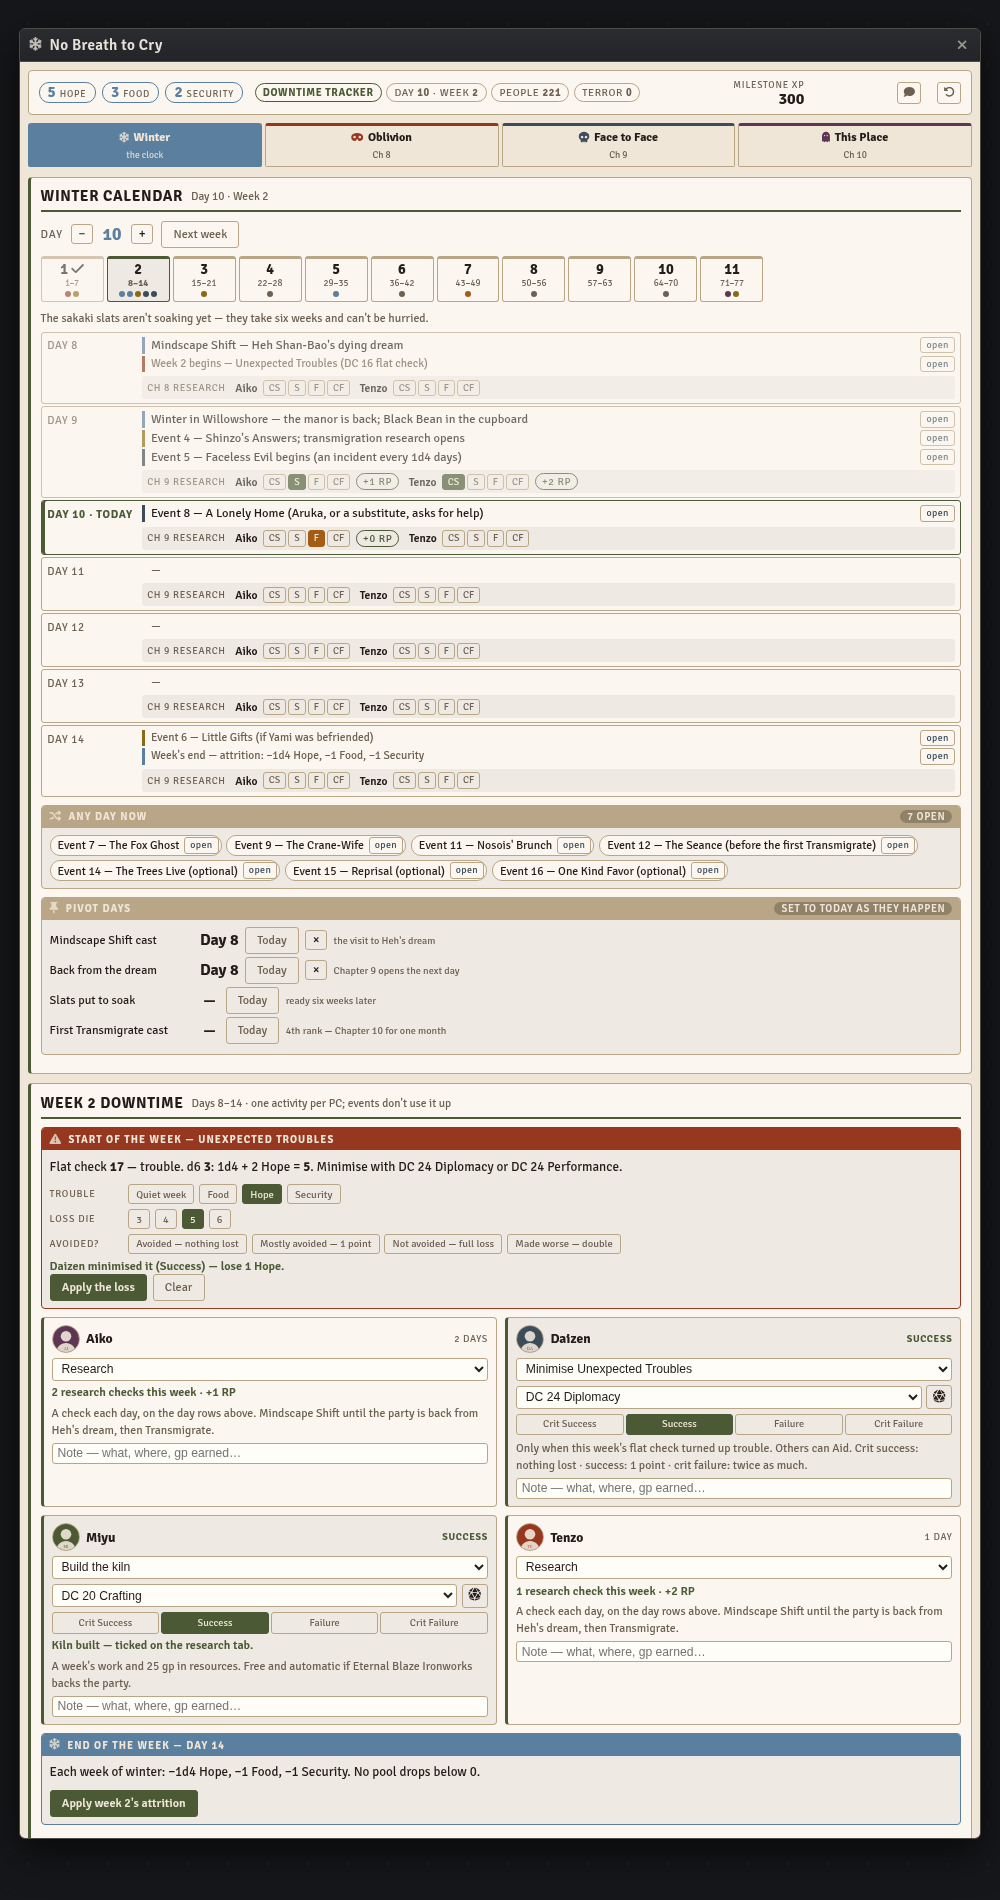
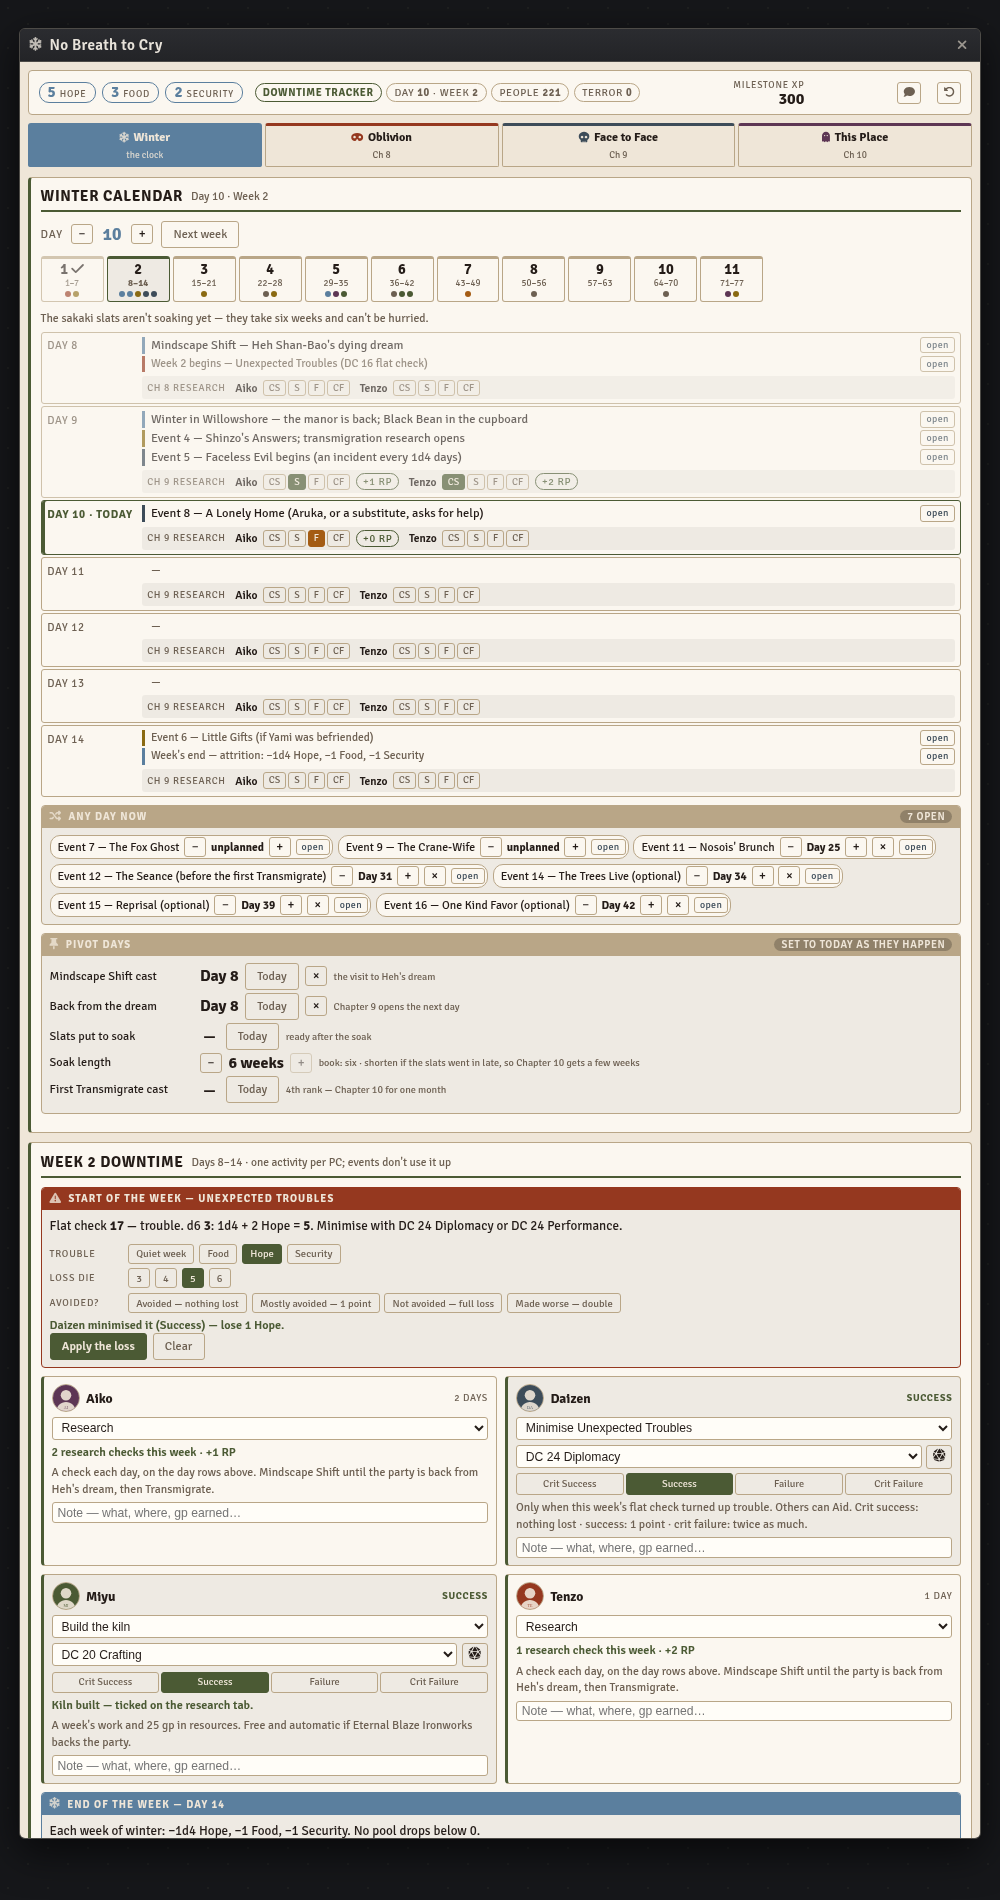
No Breath to Cry: put the floating events (Brunch, Seance, 14–16) on calendar days

Changed region(s): [[0.031, 0.4347, 0.961, 0.9626]]

diff --git a/macros/season-of-ghosts/no-breath-to-cry-console.js b/macros/season-of-ghosts/no-breath-to-cry-console.js
@@ -1539,16 +1539,37 @@ const CAL_FIXED = [
   { day: 71, label: "Event 13 — Interview with a Spider", note: "Shinzo's prophecy in Event 4 says she comes on the winter solstice; the Winter Timeline puts her on Day 71. Pick one.", tone: "plum", go: ["ch9", "pieces"], card: "ch9-spider" },
   { day: 72, label: "New Year's Day — the 5th-rank Transmigrate, once the Eternal Lantern is relit", tone: "gold", go: ["ch10", "after"] }
 ];
-/* Unscheduled events: any day after the return. */
+/* Unscheduled events: any day after the return. The book pins none of these
+   to a day, so the calendar pencils each in at a suggested day after the
+   return (the 4th field, days after "Back from the dream") — NOT printed in
+   the book, just a pacing pick: the Brunch two days after Shinzo's second
+   visit, the Seance inside the fog after the storm, the optional three spread
+   over the quiet weeks before the slats are ready. The GM nudges each with
+   −/+, and marking one done records the day, so the calendar keeps showing
+   it where it happened. The 5th field is a pointer card on the Timeline tab
+   whose "Mark done" counts too. */
 const CAL_FLOATING = [
-  ["ch9-e7-fox", "Event 7 — The Fox Ghost", ["ch9", "timeline"]],
-  ["ch9-e9-crane", "Event 9 — The Crane-Wife", ["ch9", "timeline"]],
-  ["ch9-e11-nosois", "Event 11 — Nosois' Brunch", ["ch9", "timeline"]],
-  ["ch9-seance", "Event 12 — The Seance (before the first Transmigrate)", ["ch9", "pieces"]],
-  ["ch9-e14-trees", "Event 14 — The Trees Live (optional)", ["ch9", "timeline"]],
-  ["ch9-e15-reprisal", "Event 15 — Reprisal (optional)", ["ch9", "timeline"]],
-  ["ch9-e16-favor", "Event 16 — One Kind Favor (optional)", ["ch9", "timeline"]]
+  ["ch9-e7-fox", "Event 7 — The Fox Ghost", ["ch9", "timeline"], null],
+  ["ch9-e9-crane", "Event 9 — The Crane-Wife", ["ch9", "timeline"], null],
+  ["ch9-e11-nosois", "Event 11 — Nosois' Brunch", ["ch9", "timeline"], 17],
+  ["ch9-seance", "Event 12 — The Seance (before the first Transmigrate)", ["ch9", "pieces"], 23, "ch9-e12-seance-pointer"],
+  ["ch9-e14-trees", "Event 14 — The Trees Live (optional)", ["ch9", "timeline"], 26],
+  ["ch9-e15-reprisal", "Event 15 — Reprisal (optional)", ["ch9", "timeline"], 31],
+  ["ch9-e16-favor", "Event 16 — One Kind Favor (optional)", ["ch9", "timeline"], 34]
 ];
+const floatDone = (s, f) => !!(s.cleared[f[0]] || (f[4] && s.cleared[f[4]]));
+/* The planned day: the GM's nudge, else the suggestion. null = not planned. */
+function floatPlan(s, f) {
+  const A = s.anchors ?? {}, p = s.floatPlan?.[f[0]];
+  if (p != null) return p > 0 ? p : null;
+  return A.back && f[3] != null ? A.back + f[3] : null;
+}
+/* Where a floating event sits on the calendar: the day it was marked done,
+   else (done before days were recorded) its planned day. */
+function floatDay(s, f) {
+  if (floatDone(s, f)) return s.clearedDay?.[f[0]] ?? s.clearedDay?.[f[4]] ?? floatPlan(s, f);
+  return floatPlan(s, f);
+}
 
 function calHorizon(s) {
   const A = s.anchors ?? {};
@@ -1573,6 +1594,11 @@ function calEntries(s) {
     add(d, { label: "Event 5 — Faceless Evil begins (an incident every 1d4 days)", tone: "slate", go: ["ch9", "timeline"], card: "ch9-e5-faceless" });
     add(d + 21, { label: "The severe winter storm and heavy fog Shinzo foretold", tone: "ice", go: ["clock"] });
     for (let v = d + 14; v <= end; v += 14) add(v, { label: "Shinzo returns — trade, advice, Consulting Experts (Occultism)", tone: "muted", go: ["ch9", "research"] });
+    for (const f of CAL_FLOATING) {
+      const day = floatDay(s, f), done = floatDone(s, f);
+      if (day) add(day, { label: done ? f[1] : `${f[1]} · planned`, tone: f[0] === "ch9-seance" ? "plum" : f[1].includes("optional") ? "moss" : "gold",
+        go: f[2], card: f[0], done, float: !done });
+    }
   }
   if (A.slats) add(A.slats + soakDays(s), { label: `Sakaki slats ready — ${soakWeeks(s)} weeks after they went to soak${soakWeeks(s) < SOAK_MAX ? " (soak shortened)" : ""}`, tone: "ember", go: ["ch9", "research"] });
   if (A.ritual) {
@@ -1650,7 +1676,7 @@ function calPending(s) {
     : "Mindscape Shift hasn't been cast. The book expects the dream in the first week; Chapter 9's events wait for the return." });
   else if (!A.back) out.push({ warn: false, text: `In Heh's dream since Day ${A.cast}. Record the day they come back.` });
   if (A.back && !A.slats) out.push({ warn: s.day > A.back + 7, text: "The sakaki slats aren't soaking yet — they take six weeks and can't be hurried." });
-  if (A.back && !A.ritual && !s.cleared["ch9-seance"] && s.day >= 25) out.push({ warn: true, text: "The Seance must run before the first Transmigrate (around Day 30)." });
+  if (A.back && !A.ritual && !floatDone(s, CAL_FLOATING.find(f => f[0] === "ch9-seance")) && s.day >= 25) out.push({ warn: true, text: "The Seance must run before the first Transmigrate (around Day 30)." });
   return out;
 }
 
@@ -1665,6 +1691,8 @@ function blankState(pcs) {
     terror: 0,
     influence: {},
     cleared: {},          // card key -> true
+    clearedDay: {},       // card key -> the day it was marked done
+    floatPlan: {},        // floating event key -> planned day (0 = unplanned)
     beats: {},            // card key -> { beat key: true }
     ledger: {},           // card key -> [{ id, item, choice, day, out }] — tracked changes
     weeks: {},            // week -> { troubles, pcs: { pc -> entry }, days: { day -> { pc -> check } }, attrition }
@@ -1872,7 +1900,21 @@ class Winter {
   toggleCleared(key) {
     const on = !!this.s.cleared[key];
     this.s.cleared[key] = !on;
+    /* Remember the day, so the calendar shows a floating event where it ran. */
+    const cd = this.s.clearedDay ?? (this.s.clearedDay = {});
+    if (on) delete cd[key]; else cd[key] = this.s.day;
     this.log(`${key}: ${on ? "reopened" : "cleared"}.`);
+    this.touch();
+  }
+
+  /* Nudge a floating event's planned day; 0 takes it off the calendar. */
+  planFloating(key, delta) {
+    const f = CAL_FLOATING.find(x => x[0] === key);
+    if (!f) return;
+    const plans = this.s.floatPlan ?? (this.s.floatPlan = {});
+    if (!delta) plans[key] = 0;
+    else plans[key] = Math.max(1, (floatPlan(this.s, f) ?? this.s.day) + delta);
+    this.log(`${key}: planned ${plans[key] ? `Day ${plans[key]}` : "for no day"}.`);
     this.touch();
   }
 
@@ -2411,13 +2453,13 @@ class WNRApp extends BaseApp {
       return `<div class="calday ${d === s.day ? "today" : ""} ${d < s.day ? "past" : ""}">
         <span class="dnum">Day ${d}${d === s.day ? " · today" : ""}</span>
         <div class="dlist">${items.length ? items.map(e => `
-          <div class="ditem ${e.weekly ? "weekly" : ""} ${e.card && s.cleared[e.card] ? "done" : ""}" style="--tone:var(--${e.tone})">
+          <div class="ditem ${e.weekly ? "weekly" : ""} ${e.float ? "planned" : ""} ${e.done || (e.card && s.cleared[e.card]) ? "done" : ""}" style="--tone:var(--${e.tone})">
             <span>${e.label}${e.note ? `<em>${e.note}</em>` : ""}</span>${go(e)}</div>`).join("") : `<div class="ditem quiet">—</div>`}
           ${checks(d)}</div>
       </div>`;
     }).join("");
     const pending = calPending(s);
-    const floating = A.back ? CAL_FLOATING.filter(([k]) => !s.cleared[k]) : [];
+    const floating = A.back ? CAL_FLOATING.filter(f => !floatDone(s, f)) : [];
     return `
       <section class="panel cal" style="--tone:var(--moss)">
         <h3>Winter calendar <small>Day ${s.day} · Week ${s.week}</small></h3>
@@ -2433,7 +2475,15 @@ class WNRApp extends BaseApp {
         ${pending.map(p => `<p class="${p.warn ? "blocked" : "hint"}">${p.text}</p>`).join("")}
         <div class="caldays">${days}</div>
         ${floating.length ? `<div class="sub"><div class="subhead"><i class="fa-solid fa-shuffle"></i> Any day now <span>${floating.length} open</span></div>
-          <div class="floatrow">${floating.map(([k, label, g]) => `<span class="fchip">${label}${go({ go: g, card: k })}</span>`).join("")}</div></div>` : ""}
+          <div class="floatrow">${floating.map(f => {
+            const p = floatPlan(s, f);
+            return `<span class="fchip">${f[1]}
+              <button type="button" class="qbtn" data-act="fplan" data-k="${f[0]}" data-d="-1" title="Plan it a day earlier" ${ro ? "disabled" : ""}>−</button>
+              <b class="fday">${p ? `Day ${p}` : "unplanned"}</b>
+              <button type="button" class="qbtn" data-act="fplan" data-k="${f[0]}" data-d="1" title="Plan it a day later" ${ro ? "disabled" : ""}>+</button>
+              ${p ? `<button type="button" class="qbtn" data-act="fplan" data-k="${f[0]}" data-d="0" title="Take it off the calendar" ${ro ? "disabled" : ""}>×</button>` : ""}
+              ${go({ go: f[2], card: f[0] })}</span>`;
+          }).join("")}</div></div>` : ""}
         <div class="sub"><div class="subhead"><i class="fa-solid fa-thumbtack"></i> Pivot days <span>set to today as they happen</span></div>
           ${ANCHORS.map(a => `<div class="inflrow">
             <span class="ilabel">${a.label}</span><b>${A[a.key] ? `Day ${A[a.key]}` : "—"}</b>
@@ -2775,6 +2825,7 @@ class WNRApp extends BaseApp {
       else if (a === "terror") t.setTerror(Number(btn.dataset.d));
       else if (a === "infl") t.setInfluence(btn.dataset.k, Number(btn.dataset.d), Number(btn.dataset.max));
       else if (a === "cleared") t.toggleCleared(btn.dataset.k);
+      else if (a === "fplan") t.planFloating(btn.dataset.k, Number(btn.dataset.d));
       else if (a === "postarea") t.postArea(cardByKey(btn.dataset.k), btn.dataset.ch ?? "");
       else if (a === "postchecks") t.postChecks(cardByKey(btn.dataset.k), btn.dataset.ch ?? "");
       else if (a === "dcheck") t.dayCheck(Number(btn.dataset.day), btn.dataset.pc, btn.dataset.deg);
@@ -2976,6 +3027,8 @@ class WNRApp extends BaseApp {
       .nbt .ditem em { display:block; font-size:.72rem; color:var(--muted); }
       .nbt .ditem.weekly { font-size:.72rem; color:var(--muted); }
       .nbt .ditem.done > span { text-decoration:line-through; opacity:.6; }
+      .nbt .ditem.planned { border-left-style:dashed; }
+      .nbt .fchip .fday { font-size:.72rem; white-space:nowrap; }
       .nbt .ditem.quiet { border-left-color:transparent; color:var(--muted); }
       .nbt .dchecks { display:flex; flex-wrap:wrap; align-items:center; gap:.25rem .6rem; margin-top:.15rem;
                      padding:.2rem .35rem; border-radius:3px; background:var(--stripe); }

diff --git a/macros/season-of-ghosts/README.md b/macros/season-of-ghosts/README.md
@@ -162,7 +162,10 @@ The whole of Act 3 — winter — in one window: the clock and the three chapter
   the AP's ending. The weekly attrition (−1d4 Hope, −1 Food, −1 Security), the Unexpected
   Troubles complication roll, and the depleted-track costs all sit on this one tab.
 - **Winter runs a week at a time**, the way the fall tracker does. The calendar lists the
-  viewed week's seven days with everything pinned to them. Below it, the **Week downtime**
+  viewed week's seven days with everything pinned to them. The events the book leaves
+  floating (the Brunch, the Seance, the optional 14–16) are pencilled in at a suggested day
+  after the return — a pacing pick, not the book's — which **Any day now** nudges with −/+;
+  marking one done records the day, so it stays on the calendar where it actually ran. Below it, the **Week downtime**
   panel rolls the start-of-week Troubles check (or records one rolled at the table — which
   trouble, the loss die, and whether the party avoided it), gives each PC one activity for the week
   (research, minimising the trouble, the kiln, the heron hunt, the slats, Tenon, Claylight,

diff --git a/CHANGELOG.md b/CHANGELOG.md
@@ -1,5 +1,19 @@
 # Changelog
 
+## 2026-11-23 14:45
+
+### Fixed
+- **No Breath to Cry — the calendar now shows the floating events on a day.** The Brunch, the
+  Seance and the optional Events 14–16 only ever appeared in the "Any day now" strip, and once
+  one was marked done it vanished from the calendar altogether. So a Seance run on Day 38 left
+  Day 38 blank, while the printed run-sheet timeline had it there. Each floating event is now
+  pencilled in at a suggested day after the return (Brunch +17, Seance +23 inside the fog,
+  Trees +26, Reprisal +31, One Kind Favor +34 — a pacing pick, not printed in the book; Events
+  7 and 9 start unplanned). "Any day now" gets −/+ to move each one and × to take it off the
+  calendar. Marking an event done records the day it was done on and pins it there, struck
+  through; events marked done before this change sit on their planned day. Marking the
+  Seance's pointer card on the Timeline tab done counts as well as the set-piece card.
+
 ## 2026-11-10 20:32
 
 ### Added
